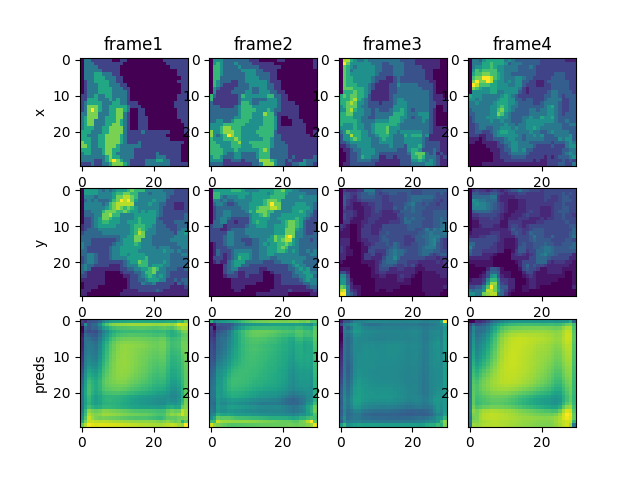
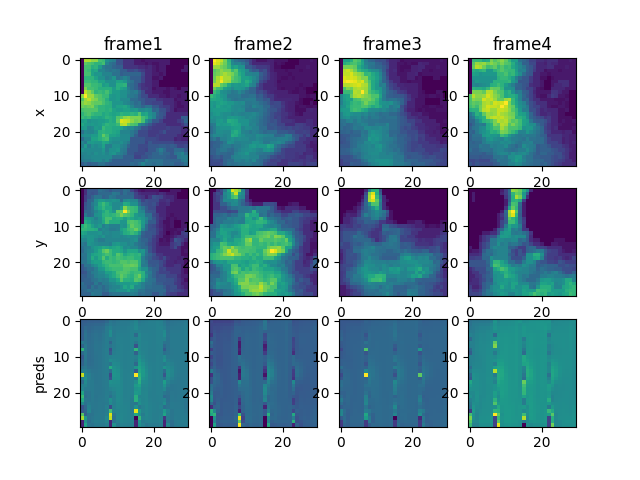
Add MultiStream Model

diff --git a/GAT3D/GATLayerMultiStream.py b/GAT3D/GATLayerMultiStream.py
@@ -1,0 +1,130 @@
+import ipdb
+import numpy as np
+import torch as t
+from torch.autograd import Variable
+import torch.nn as nn
+import torch.nn.functional as F
+from torch.autograd import Variable
+from .GAT_mappings import LinearMapping, SmaAt_UNetMapping, ConvMapping
+
+
+class GATLayerMultiStream(nn.Module):
+    # in_feature = out_feature (because here the feature is about the frame number)
+    def __init__(
+        self,
+        in_features,
+        out_features,
+        alpha,
+        *,
+        image_width: int,
+        image_height: int,
+        n_vertices: int,
+        mapping_type="conv",
+    ):
+        super().__init__()
+        self.in_features = in_features
+        self.out_features = out_features
+        self.alpha = alpha
+        self.leakyrelu = nn.LeakyReLU(self.alpha)
+        self.mapping_type = mapping_type
+        if self.mapping_type == "linear":
+            mappingClass = LinearMapping
+        elif self.mapping_type == "smaat_unet":
+            mappingClass = SmaAt_UNetMapping
+        elif self.mapping_type == "conv":
+            mappingClass = ConvMapping
+        else:
+            raise TypeError(f"Mapping type not supported: {self.type}")
+        self.mapping = mappingClass(in_features, out_features)
+        
+        self.a_temporal = nn.Parameter(t.empty(size=(2 * image_height * image_width, 1)))
+        nn.init.xavier_uniform_(self.a_temporal.data, gain=1.414)
+
+        self.a_spatial = nn.Parameter(t.empty(size=(2 * out_features, 1)))  # [8, 1]
+        nn.init.xavier_uniform_(self.a_spatial.data, gain=1.414)
+
+        self.W = nn.Parameter(t.empty(size=(in_features, out_features)))  # [4, 4]
+        nn.init.xavier_uniform_(self.W.data, gain=1.414)
+
+        self.B = nn.Parameter(t.zeros(n_vertices, n_vertices) + 1e-6)
+        self.A = Variable(t.eye(n_vertices), requires_grad=False)
+
+    def forward(self, h):
+        if len(h.size()) == 5:
+            N, H, W, T, V = h.size()
+            h = h.permute(0, 4, 1, 2, 3)
+        else:
+            N, V, H, W = h.size()
+
+        if self.A.device != self.B.device:
+            self.A = self.A.to(self.B.device)
+
+        Wh = self.mapping(h)
+
+        # Spatial Attention
+        a_input_spatial = self.batch_prepare_attentional_mechanism_input(Wh)
+        e_spatial = t.matmul(a_input_spatial, self.a_spatial)
+        e_spatial = self.leakyrelu(e_spatial.squeeze(-1))
+        attention_spatial = F.softmax(e_spatial, dim=-1)
+
+        # Learnable Adjacency Matrix
+        adj_mat = None
+        adj_mat = self.B[:, :] + self.A[:, :]
+        adj_mat_min = t.min(adj_mat)
+        adj_mat_max = t.max(adj_mat)
+        adj_mat = (adj_mat - adj_mat_min) / (adj_mat_max - adj_mat_min)
+        D = Variable(t.diag(t.sum(adj_mat, axis=1)), requires_grad=False)
+        D_12 = t.sqrt(t.inverse(D))
+        adj_mat_norm_d12 = t.matmul(t.matmul(D_12, adj_mat), D_12)
+
+        Wh_ = []
+        for i in range(V):
+            at = t.zeros(N, H, W, self.out_features).to(self.W.device)
+            for j in range(V):
+                at += Wh[:, j, :, :, :] * attention_spatial[:, i, j, :, :].unsqueeze(3).repeat(
+                    1, 1, 1, self.out_features
+                )
+            Wh_.append(at)
+
+        h_prime_spatial = t.stack((Wh_))
+        h_prime_spatial = t.stack((Wh_))
+        h_prime_spatial = (
+            h_prime_spatial.permute(1, 3, 4, 2, 0)
+            .contiguous()
+            .view(N, H, W * self.out_features, V)
+        )
+        h_prime_spatial = t.matmul(h_prime_spatial, adj_mat_norm_d12).view(
+            N, H, W, self.out_features, V
+        )
+
+        # Temporal Attention
+        a_input_temporal = self.batch_prepare_attentional_mechanism_input(Wh)
+        e_temporal = t.matmul(a_input_temporal, self.a_temporal)
+        e_temporal = self.leakyrelu(e_temporal.squeeze(-1))
+        attention_temporal = F.softmax(e_temporal, dim=-1)
+
+        Wh = Wh.view(N, V, H * W, T)  # Warning, T might be undefined
+        attention_temporal = t.diag_embed(attention_temporal)
+        Wh_ = []
+        for i in range(V):
+            at = t.zeros(N, H * W, T).to(self.B.device)  # added by Giulio
+            for j in range(V):
+                at += t.matmul(Wh[:, j, :, :], attention_temporal[:, i, j, :, :])
+            Wh_.append(at)
+        h_prime_temporal = t.stack((Wh_))
+        h_prime_temporal = h_prime_temporal.permute(1, 2, 3, 0).contiguous().view(N, H * W, T, V)
+        h_prime_temporal = t.matmul(h_prime_temporal, adj_mat_norm_d12).view(N, H, W, T, V)
+
+        print("********* ensemble shape ********", h_prime_temporal.size())
+
+
+        return F.elu(h_prime)
+
+    def batch_prepare_attentional_mechanism_input(self, Wh):
+        B, M, H, W, T = Wh.shape
+        Wh_repeated_in_chunks = Wh.repeat_interleave(M, dim=1)
+        Wh_repeated_alternating = Wh.repeat(1, M, 1, 1, 1)
+        all_combinations_matrix = t.cat(
+            [Wh_repeated_in_chunks, Wh_repeated_alternating], dim=-1
+        )
+        return all_combinations_matrix.view(B, M, M, H, W, 2 * T)

diff --git a/model.py b/model.py
@@ -91,3 +91,85 @@ class ConvGAT(nn.Module):
 
     def forward(self, x):
         pass
+
+
+class TemporalModel(nn.Module):
+    def __init__(
+        self,
+        *,
+        image_width: int,
+        image_height: int,
+        n_vertices: int,
+        time_steps: int = 4,
+        mapping_type="linear",
+    ):
+        super().__init__()
+        self.mapping_type = mapping_type
+        self.hidden_layer = GATMultiHead3D(
+            nfeat=time_steps,
+            nhid=time_steps,
+            alpha=0.2,
+            nheads=1,
+            type_="temporal",
+            mapping_type=mapping_type,
+            image_height=image_height,
+            image_width=image_width,
+            n_vertices=n_vertices,
+        )
+        self.output_layer = GATMultiHead3D(
+            nfeat=time_steps,
+            nhid=time_steps,
+            alpha=0.2,
+            nheads=1,
+            type_="temporal",
+            mapping_type=mapping_type,
+            image_height=image_height,
+            image_width=image_width,
+            n_vertices=n_vertices,
+        )
+
+    def forward(self, x):
+        x = self.hidden_layer(x)
+        x = self.output_layer(x)
+        return x
+
+
+class MultiStreamModel(nn.Module):
+    def __init__(
+        self,
+        *,
+        image_width: int,
+        image_height: int,
+        n_vertices: int,
+        time_steps: int = 4,
+        mapping_type="linear",
+    ):
+        super().__init__()
+        self.mapping_type = mapping_type
+        self.hidden_layer = GATMultiHead3D(
+            nfeat=time_steps,
+            nhid=time_steps,
+            alpha=0.2,
+            nheads=1,
+            type_="multi_stream",
+            mapping_type=mapping_type,
+            image_height=image_height,
+            image_width=image_width,
+            n_vertices=n_vertices,
+        )
+        self.output_layer = GATMultiHead3D(
+            nfeat=time_steps,
+            nhid=time_steps,
+            alpha=0.2,
+            nheads=1,
+            type_="multi_stream",
+            mapping_type=mapping_type,
+            image_height=image_height,
+            image_width=image_width,
+            n_vertices=n_vertices,
+        )
+
+    def forward(self, x):
+        x = self.hidden_layer(x)
+        x = self.output_layer(x)
+        return x

diff --git a/GAT3D/GATMultiHead3D.py b/GAT3D/GATMultiHead3D.py
@@ -2,6 +2,7 @@ import torch
 import torch.nn as nn
 from .GATLayerSpatial import GATLayerSpatial
 from .GATLayerTemporal import GATLayerTemporal
+from .GATLayerMultiStream import GATLayerMultiStream
 
 
 class GATMultiHead3D(nn.Module):
@@ -34,6 +35,19 @@ class GATMultiHead3D(nn.Module):
         elif type_ == "temporal":
             self.attentions = [
                 GATLayerTemporal(
+                    in_features=nfeat,
+                    out_features=nhid,
+                    alpha=alpha,
+                    mapping_type=mapping_type,
+                    image_width=image_width,
+                    image_height=image_height,
+                    n_vertices=n_vertices,
+                )
+                for _ in range(nheads)
+            ]
+        elif type_ == "multi_stream":
+            self.attentions = [
+                GATLayerMultiStream(
                     in_features=nfeat,
                     out_features=nhid,
                     alpha=alpha,

diff --git a/experiments/experiment6/config.py b/experiments/experiment6/config.py
@@ -1,11 +1,11 @@
 import torch
 import torch.nn as nn
-from convolutional_gat.model import SpatialModel
+from convolutional_gat.model import MultiStreamModel
 
-MODEL = SpatialModel
+MODEL = MultiStreamModel
 PREPROCESSED_FOLDER = "convolutional_gat/preprocessed"
 # PREPROCESSED_FOLDER = "/mnt/kmni_dataset/20_preprocessed"
-MAPPING_TYPE = "smaat_unet"
+MAPPING_TYPE = "linear"
 DATASET = "kmni"
 EPOCHS = 10
 TRAIN_BATCH_SIZE = 32

diff --git a/train.py b/train.py
@@ -7,7 +7,7 @@ import json
 import ipdb
 from argparse import ArgumentParser
 from .data_loaders.get_loaders import get_loaders
-from .model import SpatialModel, TemporalModel
+from .model import SpatialModel, TemporalModel, MultiStreamModel
 import matplotlib.pyplot as plt
 
 # todo: add that it saves the best performing model
